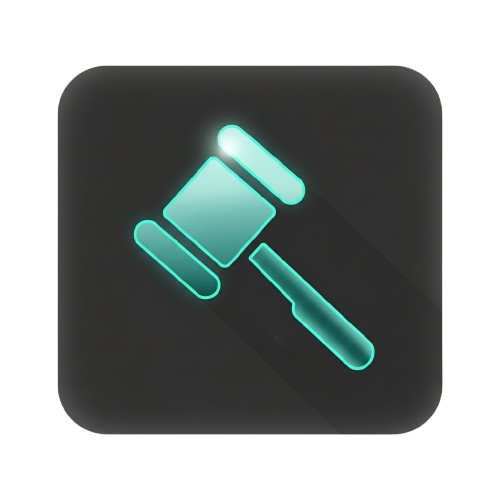
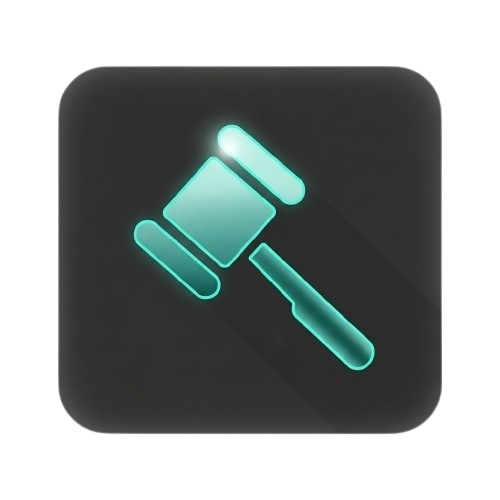
Resizing

diff --git a/index.html b/index.html
@@ -34,7 +34,7 @@
           </div>
         </div>
         <div class="hero-image-container fade-in">
-            <img class="showcase-img3 showcase-img--hero" src="assets/ZeroTrace.png" alt="Abstract secure data architecture">
+            <img class="showcase-img3 showcase-img--hero" src="assets/ZeroTrace.jpeg" alt="Abstract secure data architecture">
         </div>
       </div>
     </section>
@@ -72,14 +72,14 @@
         <div class="container text-center fade-in">
             <h2>The Erasure & Attestation Workflow</h2>
             <p>From command to certificate, every step is logged and verified.</p>
-            <img class="showcase-img showcase-img--diagram" src="assets/ZeroTrace_Progress.png" alt="ZeroTrace workflow diagram showing steps from command to certificate" loading="lazy">
+            <img class="showcase-img showcase-img--diagram" src="assets/ZeroTrace_Progress.jpeg" alt="ZeroTrace workflow diagram showing steps from command to certificate" loading="lazy">
         </div>
     </section>
 
     <section id="certificate" class="section">
       <div class="container two-col fade-in">
         <div class="image-wrapper">
-          <img class="showcase-img" src="assets/ZeroTrace_Cert.png" alt="ZeroTrace PDF certificate mockup" loading="lazy">
+          <img class="showcase-img" src="assets/ZeroTrace_Cert.jpeg" alt="ZeroTrace PDF certificate mockup" loading="lazy">
         </div>
         <div class="text-content">
           <h2>Signed, Sealed, and Delivered</h2>
@@ -148,7 +148,7 @@
     <section id="certificate" class="section">
       <div class="container two-col fade-in">
         <div class="image-wrapper">
-          <img class="showcase-img" src="assets/ZEROTRACE_cert-ssd.png" alt="ZeroTrace PDF certificate mockup" loading="lazy">
+          <img class="showcase-img" src="assets/ZEROTRACE_cert-ssd.jpeg" alt="ZeroTrace PDF certificate mockup" loading="lazy">
         </div>
         <div class="container text-center fade-in">
           <h2>Get In Touch</h2>
